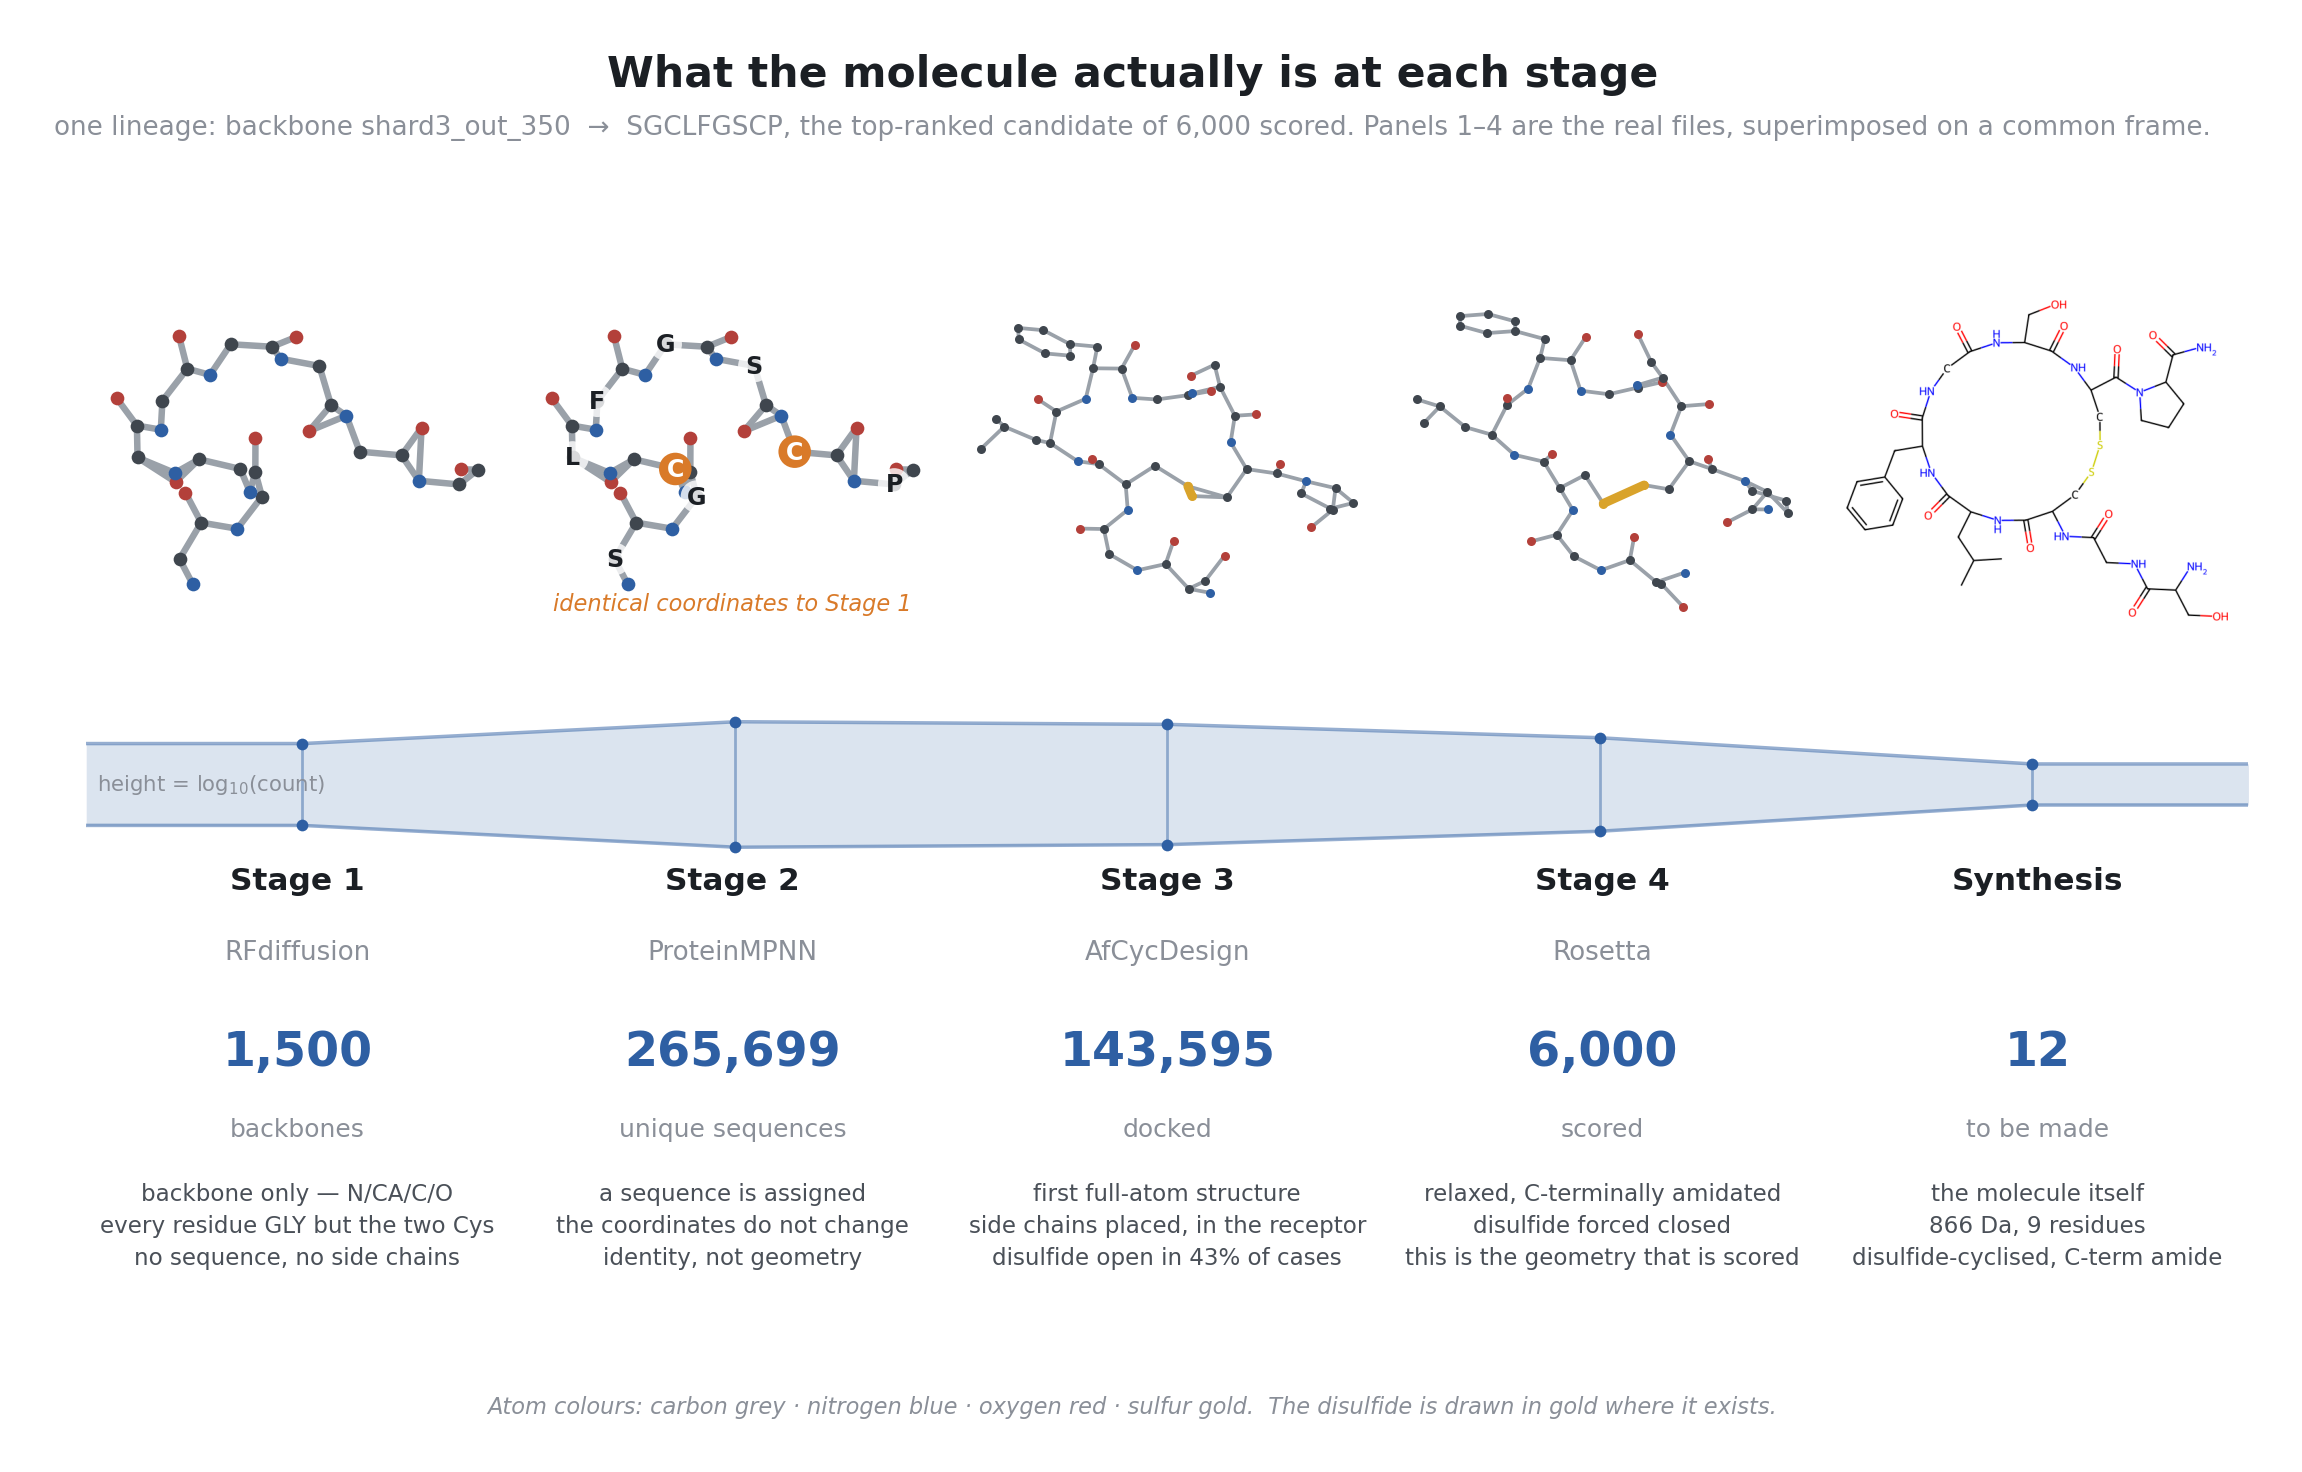
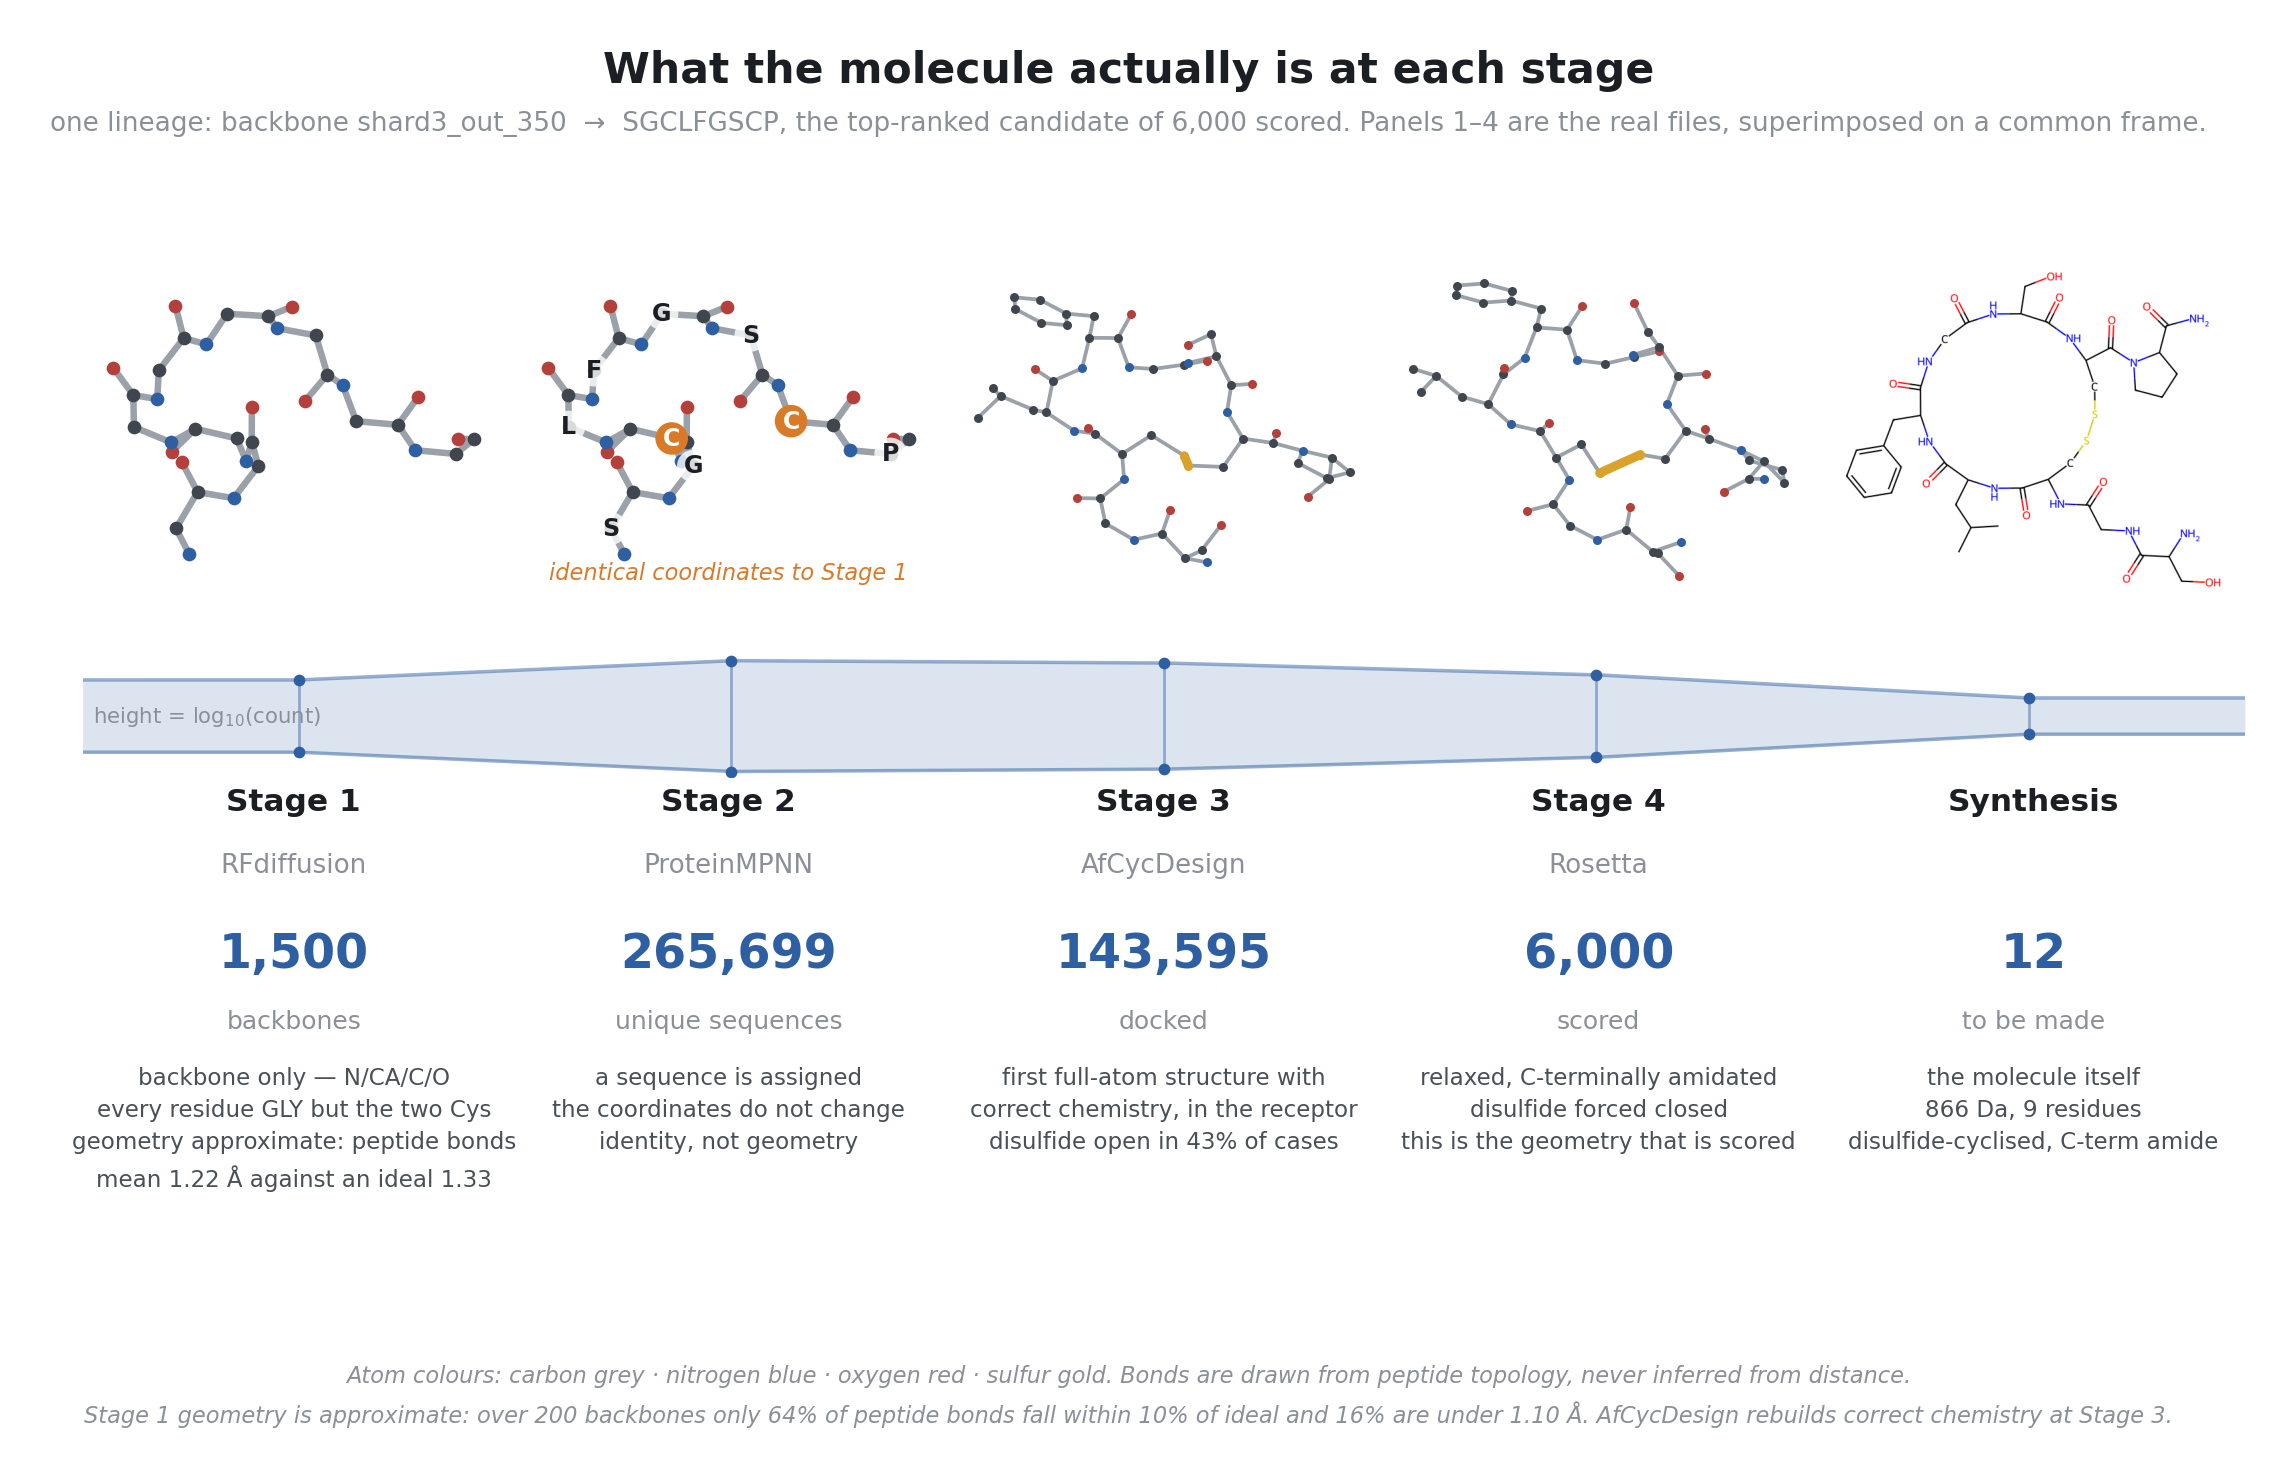
prod_fig14: correct connectivity, and what it exposed about Stage 1 geometry
The first version inferred bonds from a 1.95 A distance cutoff, which produced
impossible structures -- spurious rings and wrong valences -- because that
cannot tell a bond from a close non-bonded contact in a compact relaxed
macrocycle. Peptide topology is known exactly, so it is now tabulated: backbone
N-CA, CA-C, C=O plus OXT or the NT amide cap, the full heavy-atom side chain
for all 20 residues, PRO's CD-N ring closure, the C(i)-N(i+1) peptide bond, and
the disulfide drawn explicitly. Nothing is guessed.

Validated rather than eyeballed. Over all three panels: zero over-valent atoms
(C>4, N>4, O>2, S>2), zero isolated atoms, and bond counts that match the
topology exactly -- Stage 1 36 atoms / 35 bonds, Stage 4 59 atoms / 61 bonds.

A scoping bug was caught in the same pass: residue names were being held in a
module-level dict keyed by residue number, but all three files share numbers
1-9, so Stage 4's sequence silently overwrote Stage 1's poly-Gly. The name now
travels with each atom.

WHAT THE CHECK EXPOSED. Stages 3 and 4 are chemically exact -- the shortest bond
is C=O at 1.23 A and the longest is the disulfide at 2.02 A. Stage 1 is not. Its
peptide bonds run 0.96-1.16 A where 1.33 is correct, and that is not specific to
this backbone: measured across 200 Stage 1 backbones (1,987 peptide bonds), the
mean is 1.221 A, only 63.5% fall within 10% of ideal, 15.6% are under 1.10 A,
and the shortest is 0.61 A.
[…]

diff --git a/scripts/viz/plot_molecule_funnel.py b/scripts/viz/plot_molecule_funnel.py
@@ -62,7 +62,7 @@ S4 = (V + "/stage_4_rosetta/relaxed/shard3_out_350_u16/"
 
 
 def read(path, chain):
-    """-> list of (element, resnum, atomname, xyz), heavy atoms only."""
+    """-> list of (element, resnum, atomname, resname, xyz), heavy atoms only."""
     out = []
     for l in open(path):
         if not (l.startswith("ATOM") or l.startswith("HETATM")):
@@ -71,23 +71,70 @@ def read(path, chain):
             continue
         name = l[12:16].strip()
         el = (l[76:78].strip() or name[0]).upper()
-        if el == "H" or name.startswith("H"):
+        if el == "H" or name.startswith("H") or name[0].isdigit():
             continue
-        out.append((el, int(l[22:26]), name,
+        out.append((el, int(l[22:26]), name, l[17:20].strip(),
                     np.array([float(l[30:38]), float(l[38:46]), float(l[46:54])])))
     return out
 
 
-def bonds(atoms, cut=1.95):
-    P = np.array([a[3] for a in atoms])
-    d = np.linalg.norm(P[:, None, :] - P[None, :, :], axis=2)
+# Explicit heavy-atom connectivity. Distance-based bond inference was used in
+# the first version and produced impossible structures -- spurious rings and
+# wrong valences -- because a 1.95 A cutoff cannot tell a bond from a close
+# non-bonded contact in a compact relaxed macrocycle. Peptide topology is known
+# exactly, so it is tabulated rather than guessed.
+SIDE = {
+    "GLY": [],
+    "ALA": [("CA", "CB")],
+    "SER": [("CA", "CB"), ("CB", "OG")],
+    "CYS": [("CA", "CB"), ("CB", "SG")],
+    "THR": [("CA", "CB"), ("CB", "OG1"), ("CB", "CG2")],
+    "VAL": [("CA", "CB"), ("CB", "CG1"), ("CB", "CG2")],
+    "LEU": [("CA", "CB"), ("CB", "CG"), ("CG", "CD1"), ("CG", "CD2")],
+    "ILE": [("CA", "CB"), ("CB", "CG1"), ("CB", "CG2"), ("CG1", "CD1")],
+    "PRO": [("CA", "CB"), ("CB", "CG"), ("CG", "CD"), ("CD", "N")],
+    "MET": [("CA", "CB"), ("CB", "CG"), ("CG", "SD"), ("SD", "CE")],
+    "PHE": [("CA", "CB"), ("CB", "CG"), ("CG", "CD1"), ("CG", "CD2"),
+            ("CD1", "CE1"), ("CD2", "CE2"), ("CE1", "CZ"), ("CE2", "CZ")],
+    "TYR": [("CA", "CB"), ("CB", "CG"), ("CG", "CD1"), ("CG", "CD2"),
+            ("CD1", "CE1"), ("CD2", "CE2"), ("CE1", "CZ"), ("CE2", "CZ"),
+            ("CZ", "OH")],
+    "TRP": [("CA", "CB"), ("CB", "CG"), ("CG", "CD1"), ("CG", "CD2"),
+            ("CD1", "NE1"), ("NE1", "CE2"), ("CD2", "CE2"), ("CD2", "CE3"),
+            ("CE3", "CZ3"), ("CZ3", "CH2"), ("CH2", "CZ2"), ("CZ2", "CE2")],
+    "ASP": [("CA", "CB"), ("CB", "CG"), ("CG", "OD1"), ("CG", "OD2")],
+    "ASN": [("CA", "CB"), ("CB", "CG"), ("CG", "OD1"), ("CG", "ND2")],
+    "GLU": [("CA", "CB"), ("CB", "CG"), ("CG", "CD"), ("CD", "OE1"),
+            ("CD", "OE2")],
+    "GLN": [("CA", "CB"), ("CB", "CG"), ("CG", "CD"), ("CD", "OE1"),
+            ("CD", "NE2")],
+    "LYS": [("CA", "CB"), ("CB", "CG"), ("CG", "CD"), ("CD", "CE"),
+            ("CE", "NZ")],
+    "ARG": [("CA", "CB"), ("CB", "CG"), ("CG", "CD"), ("CD", "NE"),
+            ("NE", "CZ"), ("CZ", "NH1"), ("CZ", "NH2")],
+    "HIS": [("CA", "CB"), ("CB", "CG"), ("CG", "ND1"), ("ND1", "CE1"),
+            ("CE1", "NE2"), ("NE2", "CD2"), ("CD2", "CG")],
+}
+# N-CA-C(=O) backbone, plus OXT on a free acid and NT on the amide cap Rosetta
+# writes for CTERM_AMIDATION.
+BACKBONE = [("N", "CA"), ("CA", "C"), ("C", "O"), ("C", "OXT"), ("C", "NT")]
+
+
+def bonds(atoms):
+    """Explicit peptide connectivity -- never inferred from distance."""
+    idx = {(a[1], a[2]): k for k, a in enumerate(atoms)}
+    rname = {a[1]: a[3] for a in atoms}
+    nums = sorted(rname)
     out = []
-    n = len(atoms)
-    for i in range(n):
-        for j in range(i + 1, n):
-            lim = 2.3 if (atoms[i][0] == "S" and atoms[j][0] == "S") else cut
-            if d[i, j] < lim:
+    for rn in nums:
+        for a, b in BACKBONE + SIDE.get(rname[rn], []):
+            i, j = idx.get((rn, a)), idx.get((rn, b))
+            if i is not None and j is not None:
                 out.append((i, j))
+    for a, b in zip(nums, nums[1:]):          # peptide bond C(i)-N(i+1)
+        i, j = idx.get((a, "C")), idx.get((b, "N"))
+        if i is not None and j is not None:
+            out.append((i, j))
     return out
 
 
@@ -104,7 +151,7 @@ def kabsch(P, Q):
 bb = read(BB, "L")
 a3 = read(S3, "B")
 a4 = read(S4, "B")
-ca = lambda A: np.array([a[3] for a in A if a[2] == "CA"])
+ca = lambda A: np.array([a[4] for a in A if a[2] == "CA"])
 ref = ca(bb)
 cen_ref = ref.mean(0)
 _, _, vt = np.linalg.svd(ref - cen_ref, full_matrices=False)
@@ -116,7 +163,7 @@ def place(atoms, ref_ca, ref_cen):
     this = ca(atoms)
     n = min(len(this), len(ref_ca))
     R = kabsch(this[:n] - this[:n].mean(0), ref_ca[:n] - ref_ca[:n].mean(0))
-    P = np.array([a[3] for a in atoms])
+    P = np.array([a[4] for a in atoms])
     P = (P - this[:n].mean(0)) @ R.T + ref_ca[:n].mean(0)
     return (P - ref_cen) @ PROJ.T, P
 
@@ -161,11 +208,11 @@ def sg_pair(atoms):
 # ------------------------------------------------------------------ figure
 STAGES = [
     ("Stage 1", "RFdiffusion", "1,500", "backbones",
-     "backbone only — N/CA/C/O\nevery residue GLY but the two Cys\nno sequence, no side chains"),
+     "backbone only — N/CA/C/O\nevery residue GLY but the two Cys\ngeometry approximate: peptide bonds\nmean 1.22 Å against an ideal 1.33"),
     ("Stage 2", "ProteinMPNN", "265,699", "unique sequences",
      "a sequence is assigned\n**the coordinates do not change**\nidentity, not geometry"),
     ("Stage 3", "AfCycDesign", "143,595", "docked",
-     "first full-atom structure\nside chains placed, in the receptor\ndisulfide open in 43% of cases"),
+     "first full-atom structure with\ncorrect chemistry, in the receptor\ndisulfide open in 43% of cases"),
     ("Stage 4", "Rosetta", "6,000", "scored",
      "relaxed, C-terminally amidated\ndisulfide forced closed\nthis is the geometry that is scored"),
     ("Synthesis", "", "12", "to be made",
@@ -257,13 +304,18 @@ fig.text(.5, .947,
          "one lineage: backbone shard3_out_350  →  SGCLFGSCP, the top-ranked candidate of 6,000 scored. "
          "Panels 1–4 are the real files, superimposed on a common frame.",
          ha="center", fontsize=10.5, color=GRAY)
-fig.text(.5, .012,
-         "Atom colours: carbon grey · nitrogen blue · oxygen red · sulfur gold.  "
-         "The disulfide is drawn in gold where it exists.",
-         ha="center", fontsize=9, color=GRAY, style="italic")
+fig.text(.5, .045,
+         "Atom colours: carbon grey · nitrogen blue · oxygen red · sulfur gold. "
+         "Bonds are drawn from peptide topology, never inferred from distance.\n"
+         "Stage 1 geometry is approximate: over 200 backbones only 64% of peptide bonds "
+         "fall within 10% of ideal and 16% are under 1.10 Å. "
+         "AfCycDesign rebuilds correct chemistry at Stage 3.",
+         ha="center", va="top", fontsize=9, color=GRAY, style="italic",
+         linespacing=1.6)
 
 out = FIG / "prod_fig14_molecule_funnel.png"
-fig.savefig(out, dpi=180, bbox_inches="tight", pad_inches=0.3)
+fig.subplots_adjust(bottom=0.20)
+fig.savefig(out, dpi=180, bbox_inches="tight", pad_inches=0.28)
 plt.close(fig)
 print("wrote %s" % out)
 print("stage1 atoms %d  stage3 atoms %d  stage4 atoms %d" % (len(bb), len(a3), len(a4)))
